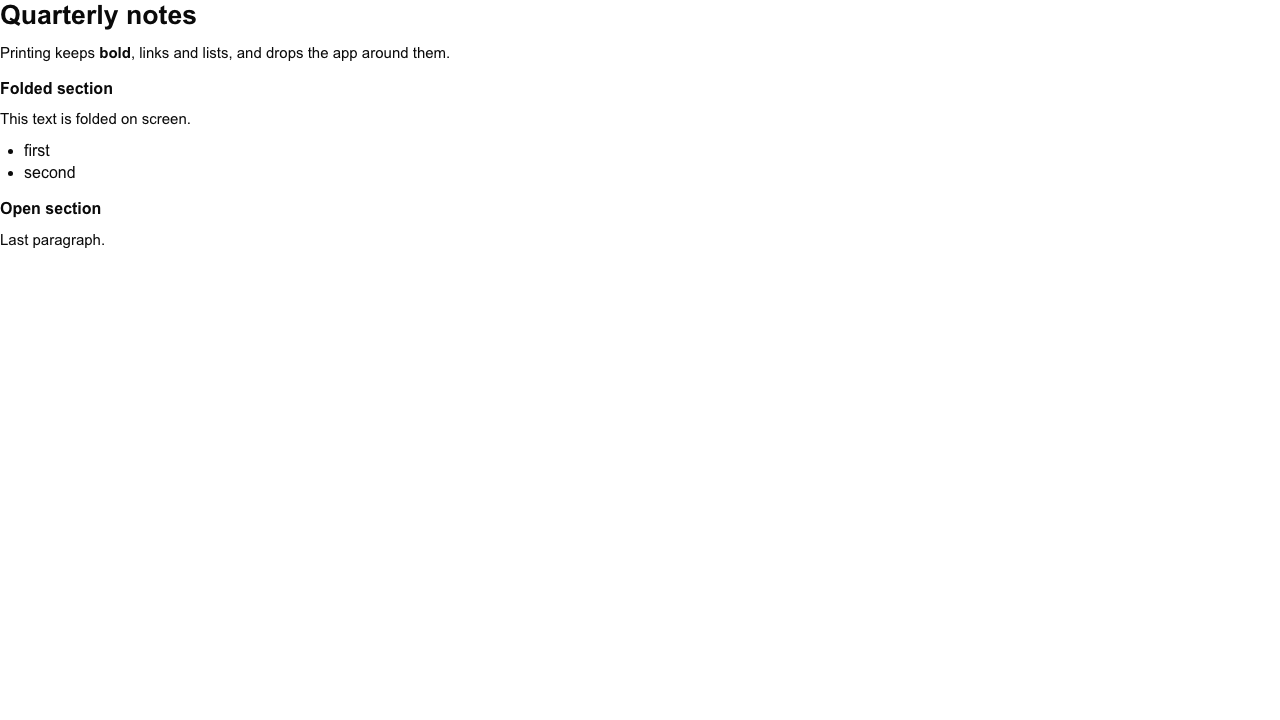
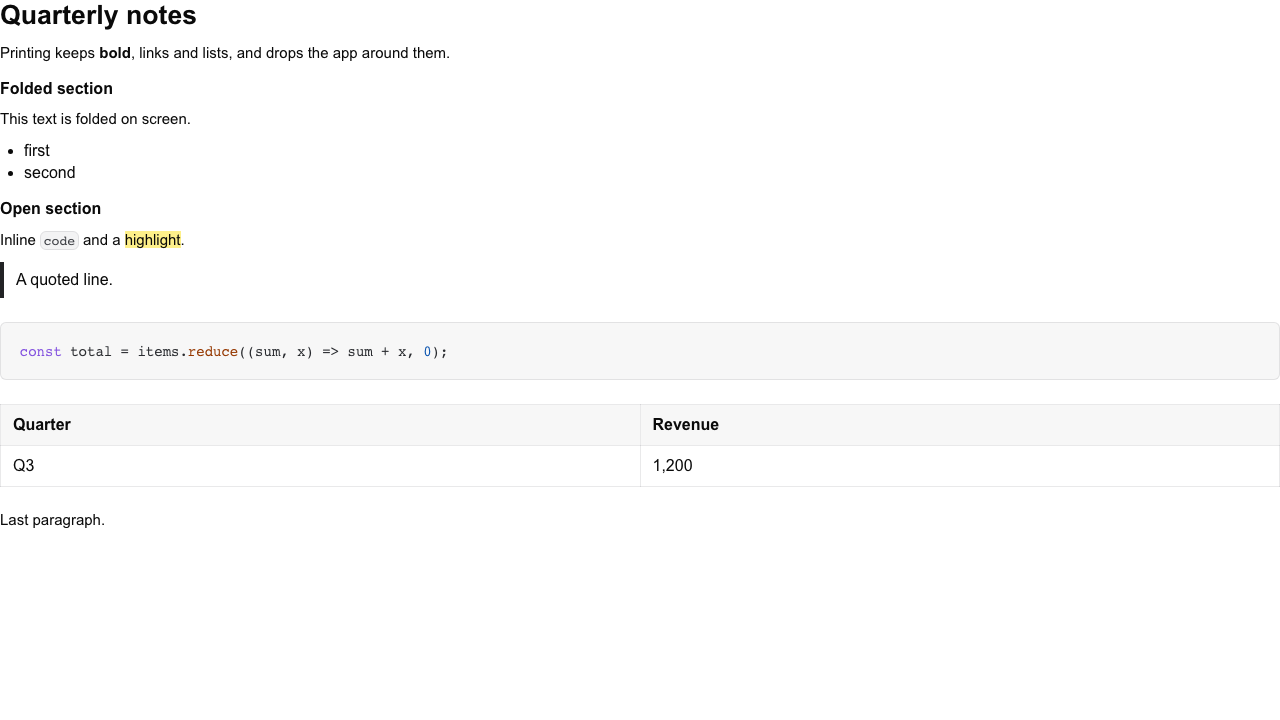
fix(print): print the dark theme light and leave other pages whole
The dark theme's light ink (inline code, code blocks, tables) vanished
on paper. ThemeRuntime now removes the dark class on beforeprint and
restores it on afterprint, replacing the partial token override. The
chrome rule applies only when the page holds the editor, so About and
Privacy print as before. The previews now include code, a quote and a
table.

diff --git a/tests/e2e/print-stylesheet.spec.ts b/tests/e2e/print-stylesheet.spec.ts
@@ -44,6 +44,48 @@ const PRINT_DOC = {
       ],
     },
     { type: "heading", attrs: { level: 2 }, content: text("Open section") },
+    {
+      type: "paragraph",
+      content: [
+        { type: "text", text: "Inline " },
+        { type: "text", text: "code", marks: [{ type: "inlineCode" }] },
+        { type: "text", text: " and a " },
+        {
+          type: "text",
+          text: "highlight",
+          marks: [{ type: "highlight", attrs: { color: "yellow" } }],
+        },
+        { type: "text", text: "." },
+      ],
+    },
+    {
+      type: "blockquote",
+      content: [{ type: "paragraph", content: text("A quoted line.") }],
+    },
+    {
+      type: "codeBlock",
+      attrs: { language: "javascript" },
+      content: text("const total = items.reduce((sum, x) => sum + x, 0);"),
+    },
+    {
+      type: "table",
+      content: [
+        {
+          type: "tableRow",
+          content: ["Quarter", "Revenue"].map((cell) => ({
+            type: "tableHeader",
+            content: [{ type: "paragraph", content: text(cell) }],
+          })),
+        },
+        {
+          type: "tableRow",
+          content: ["Q3", "1,200"].map((cell) => ({
+            type: "tableCell",
+            content: [{ type: "paragraph", content: text(cell) }],
+          })),
+        },
+      ],
+    },
     { type: "paragraph", content: text("Last paragraph.") },
   ],
 };
@@ -125,15 +167,33 @@ test.describe("print stylesheet", () => {
 
   test("print is light in the dark theme", async ({ page }) => {
     await page.emulateMedia({ media: "print" });
-    const textColor = (dark: boolean) =>
-      page.evaluate((on: boolean) => {
-        document.documentElement.classList.toggle("dark", on);
-        const paragraph = document.querySelector(".tiptap p");
-        return paragraph ? getComputedStyle(paragraph).color : "";
-      }, dark);
-    const light = await textColor(false);
-    // Dark text on paper whatever the theme: the light print's colour.
-    expect(await textColor(true)).toBe(light);
+    // Ink of body text, inline code and a code block, as printed.
+    const ink = () =>
+      page.evaluate(() =>
+        [".tiptap p", ".tiptap p code", ".tiptap pre"].map((selector) => {
+          const element = document.querySelector(selector);
+          return element ? getComputedStyle(element).color : "";
+        }),
+      );
+    const light = await ink();
+
+    await page.evaluate(() => document.documentElement.classList.add("dark"));
+    // `emulateMedia` fires no print events; the print dialog does.
+    await page.evaluate(() => window.dispatchEvent(new Event("beforeprint")));
+    expect(await ink()).toEqual(light);
     await savePreview(page, "print-dark-theme.png");
+
+    await page.evaluate(() => window.dispatchEvent(new Event("afterprint")));
+    expect(
+      await page.evaluate(() =>
+        document.documentElement.classList.contains("dark"),
+      ),
+    ).toBe(true);
   });
+});
+
+test("print leaves pages without the editor whole", async ({ page }) => {
+  await page.goto("/privacy");
+  await page.emulateMedia({ media: "print" });
+  await expect(page.locator("h1").first()).toBeVisible();
 });

diff --git a/styles/_print.scss b/styles/_print.scss
@@ -10,24 +10,13 @@
      start with `html` to outrank them.
      ===================== */
 @media print {
-  /* Paper is light: a dark theme's light text would vanish on it. Only
-     the tokens body text, links and rules read; the rest stay readable. */
-  html.dark {
-    color-scheme: light;
-    --background: oklch(1 0 0);
-    --foreground: oklch(0.145 0 0);
-    --muted-foreground: oklch(0.556 0 0);
-    --border: oklch(0.922 0 0);
-    --tt-canvas-color: transparent;
-  }
-
-  html.dark .tiptap.ProseMirror {
-    --link-text-color: #1155cc;
-  }
+  /* Paper is light: `watchPrintTheme` (lib/print-theme.ts) takes the dark
+     class off for the print, so every token prints its light value. */
 
   /* Chrome: everything but the document itself. Overlays the editor
-     portals to the body (popovers, menus, tooltips) go with it. */
-  body > :not(.app-shell),
+     portals to the body (popovers, menus, tooltips) go with it. Pages
+     without the editor (About, Privacy) print as they are. */
+  body:has(> .app-shell) > :not(.app-shell),
   .app-shell > :not(.document-editor-wrapper),
   .document-editor-wrapper > :not(.editor-with-toc),
   .editor-with-toc > :not(.document-editor-content) {

diff --git a/tests/unit/lib/print-theme.test.ts b/tests/unit/lib/print-theme.test.ts
@@ -1,0 +1,38 @@
+import { afterEach, describe, expect, it } from "bun:test";
+
+import { watchPrintTheme } from "@/lib/print-theme";
+
+const root = () => document.documentElement.classList;
+
+let stop: (() => void) | null = null;
+
+afterEach(() => {
+  stop?.();
+  stop = null;
+  root().remove("dark");
+});
+
+describe("watchPrintTheme (details spec E6)", () => {
+  it("prints the dark theme light and restores it after", () => {
+    root().add("dark");
+    stop = watchPrintTheme();
+    window.dispatchEvent(new Event("beforeprint"));
+    expect(root().contains("dark")).toBe(false);
+    window.dispatchEvent(new Event("afterprint"));
+    expect(root().contains("dark")).toBe(true);
+  });
+
+  it("leaves the light theme light", () => {
+    stop = watchPrintTheme();
+    window.dispatchEvent(new Event("beforeprint"));
+    window.dispatchEvent(new Event("afterprint"));
+    expect(root().contains("dark")).toBe(false);
+  });
+
+  it("stops listening when unsubscribed", () => {
+    root().add("dark");
+    watchPrintTheme()();
+    window.dispatchEvent(new Event("beforeprint"));
+    expect(root().contains("dark")).toBe(true);
+  });
+});

diff --git a/lib/print-theme.ts b/lib/print-theme.ts
@@ -1,0 +1,27 @@
+/**
+ * Prints in the light theme (details spec E6): paper is light, and the dark
+ * theme's light ink (body text, code, tables, highlights) would vanish on
+ * it. The `dark` class comes off for the print and goes back after it.
+ * `beforeprint` and `afterprint` also fire for Electron's
+ * `webContents.print()`. Only the class changes: the stored preference,
+ * the title-bar colour and the theme event stay as they are. Mounted once
+ * per page (`ThemeRuntime`); returns the unsubscribe.
+ */
+export function watchPrintTheme(): () => void {
+  const root = document.documentElement.classList;
+  let restoreDark = false;
+  const beforePrint = () => {
+    restoreDark = root.contains("dark");
+    if (restoreDark) root.remove("dark");
+  };
+  const afterPrint = () => {
+    if (restoreDark) root.add("dark");
+    restoreDark = false;
+  };
+  window.addEventListener("beforeprint", beforePrint);
+  window.addEventListener("afterprint", afterPrint);
+  return () => {
+    window.removeEventListener("beforeprint", beforePrint);
+    window.removeEventListener("afterprint", afterPrint);
+  };
+}

diff --git a/components/theme/theme-runtime.tsx b/components/theme/theme-runtime.tsx
@@ -2,13 +2,16 @@
 
 import { useEffect } from "react";
 
+import { watchPrintTheme } from "@/lib/print-theme";
 import { watchSystemTheme } from "@/lib/theme";
 
 /**
- * Follows OS light/dark changes while the theme is System (F3). A leaf in
- * the root layout, so it also runs on `/about`; never in the editor shell.
+ * Follows OS light/dark changes while the theme is System (F3), and prints
+ * in the light theme (E6). A leaf in the root layout, so it also runs on
+ * `/about`; never in the editor shell.
  */
 export function ThemeRuntime(): null {
   useEffect(() => watchSystemTheme(), []);
+  useEffect(() => watchPrintTheme(), []);
   return null;
 }
